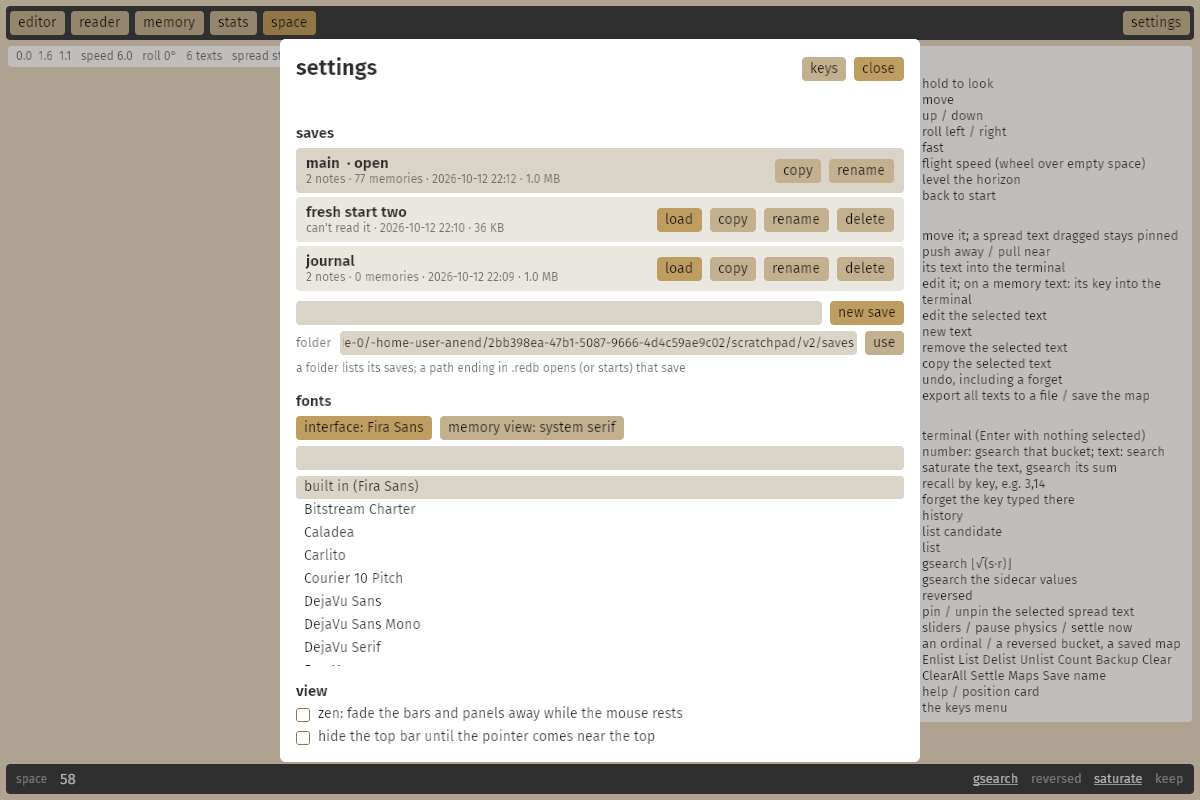
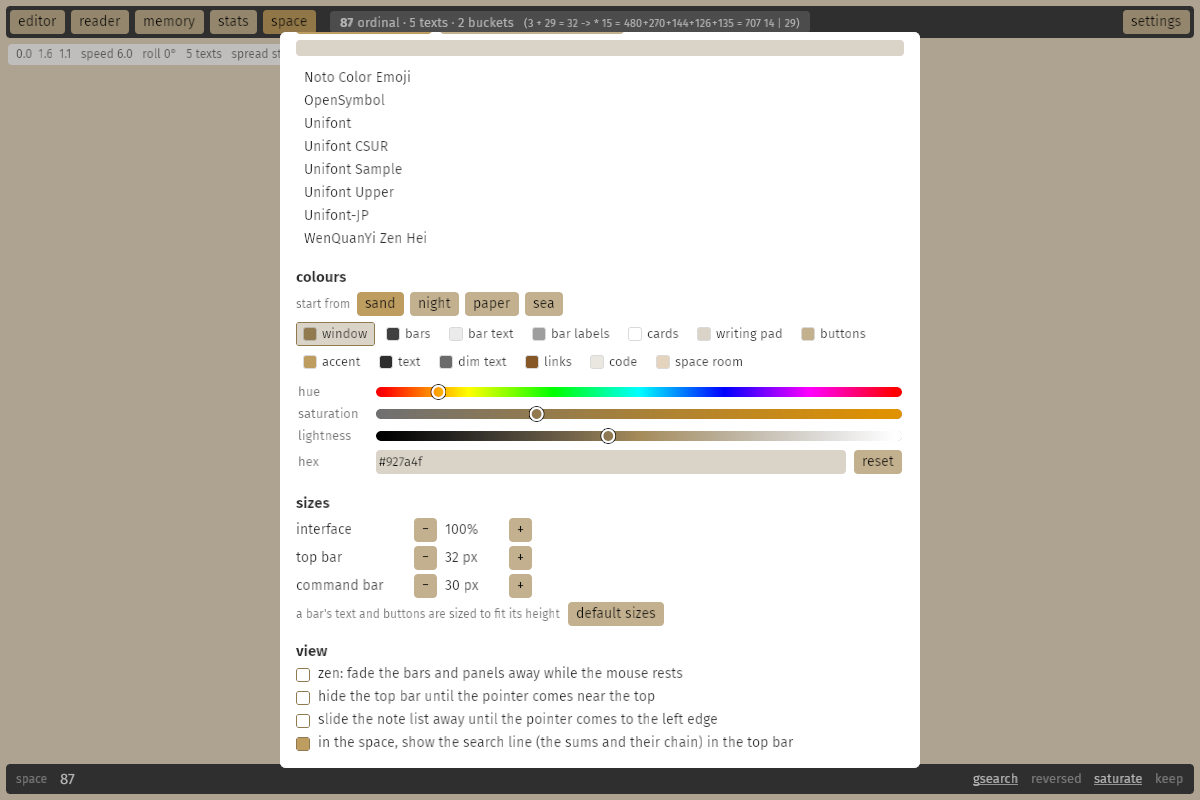
Release builds for Linux and Windows, CI, docs
- .github/workflows/release.yml: a pushed v* tag builds the app and the
  server on Linux and Windows and attaches a .tar.gz and a .zip to a
  release; running it by hand gives the same packages as artifacts.
- .github/workflows/ci.yml: fmt, clippy and tests for the app, vet and
  tests for the server, on pushes to master and pull requests.
- A release build on Windows opens no console window.
- README: colours, sizes, the sliding list, downloads and releases; new
  screenshots, one in the night colours.

Claude-Session: https://claude.ai/code/session_01Tq7kHwoCFpfspEmb6rmcAF

diff --git a/src/main.rs b/src/main.rs
@@ -1,6 +1,8 @@
 //! anend notes: a desktop markdown note app with the look and workflow of the old anend
 //! blog admin panel, built on Bevy's feathers widgets. Notes live in a local redb file.
 
+// a release build on Windows opens no console window next to the app
+#![cfg_attr(all(windows, not(debug_assertions)), windows_subsystem = "windows")]
 #![allow(clippy::type_complexity, clippy::too_many_arguments)] // bevy queries and systems are naturally verbose
 
 mod bar;

diff --git a/README.md b/README.md
@@ -16,23 +16,23 @@ as saves and swap between them like a game's.
 ![the memory view](docs/memory.png)
 ![the space](docs/space.png)
 ![the settings](docs/settings.png)
+![the night colours](docs/night.png)
 
 ## Using it
 
 | | |
 |---|---|
-| **editor** | the note list (with **+ new**) next to the editor card. The first `# line` is the note's title, the rest is markdown. |
+| **editor** | the note list (with **+ new**) next to the editor card. The first `# line` is the note's title, the rest is markdown. **‹** (or **Ctrl+B**) slides the list away to the left; it peeks back out while the pointer is at the left edge. |
 | **tags** | type a tag in the box at the top of the card and press Enter (or `,`); click a tag to remove it |
-| **published** | ticking it saves the note and shows it in the reader |
 | **view / edit** | switch between the markdown source and the rendered note |
-| **reader** | published notes, newest first, the way the old front page listed writs; click a `#tag` to filter |
+| **reader** | your notes, newest first, the way the old front page listed writs; click a `#tag` to filter |
 | **stats** | counts of notes, words, saves and tags |
 | **memory** | weum's memory view: short texts ("memories") and your notes, searched by gematria or by words |
 | **command bar** | the line at the bottom, one for every view (see below) |
 | **space** | weum's spatial memory (remem): fly through a room where memory texts float, laid out by their sums |
-| **settings** | saves, fonts, zen mode and the top bar (also **Ctrl+,**); the key remap menu is in there too (also **K**, or **Ctrl+K** in the space) |
+| **settings** | saves, fonts, colours, sizes, zen mode and the bars (also **Ctrl+,**); the key remap menu is in there too (also **K**, or **Ctrl+K** in the space) |
 
-Shortcuts: **Ctrl+S** save, **Ctrl+N** new note, **Ctrl+E** toggle view/edit,
+Shortcuts: **Ctrl+S** save, **Ctrl+N** new note, **Ctrl+E** toggle view/edit, **Ctrl+B** the note list,
 **Ctrl+1..5** editor / reader / memory / stats / space, **Ctrl+,** settings, **/** the
 command bar. All of them can be changed in **keys**.
 
@@ -68,7 +68,11 @@ Also in settings:
 |---|---|
 | **fonts** | the interface font (every text in the app, the space's floating texts too) and the memory view's font, from the fonts on your system; filter the list by typing |
 | **zen** | while the mouse rests the bars and panels fade away (after 1, 2.5, 5 or 10 seconds); typing in the editor doesn't bring them back, moving the mouse does |
+| **colours** | every colour the app uses has a name (window, bars, bar text, cards, writing pad, buttons, accent, text, links, code, the space's room...): pick one and set it with the hue, saturation and lightness sliders or a hex. **sand** (the old admin panel's), **night**, **paper** and **sea** are starting points; **reset** puts one colour back. The memory view keeps weum's own colours |
+| **sizes** | the whole interface's scale, and the top bar's and command bar's heights in pixels, the way a desktop panel is set; their text and buttons are sized to fit |
 | **hide the top bar** | it slides up out of the way and back down when the pointer comes to the top edge |
+| **slide the note list away** | the same as **Ctrl+B**: it stays away until the pointer comes to the left edge |
+| **the space's search line** | in the space, what was searched, its counts and its sum's prime factor chain sit in the top bar (fading with it under zen); this turns that off |
 
 These settings and your key bindings live in `config.json` in the platform config folder
 (`~/.config/anend` on Linux, `~/Library/Application Support/anend` on macOS,
@@ -164,6 +168,27 @@ Downloads, **Shift+X** saves the map in the database (**Maps** lists them), **H*
 **I** the position card. Every key can be remapped in **keys**. weum's esearch, speech
 and image memories aren't part of it.
 
+## Downloads
+
+Builds for Linux and Windows are on the repository's
+[releases page](https://github.com/SaulDoesCode/anend/releases), each with the app
+(`anend`) and the old server (`anend-server`). On Linux the app needs the Wayland or X11
+libraries a desktop already has.
+
+They're made by GitHub Actions (`.github/workflows/release.yml`). To make a release, tag a
+commit and push the tag:
+
+```sh
+git tag v0.2.0
+git push origin v0.2.0
+```
+
+The workflow builds both programs on Linux and Windows and attaches a `.tar.gz` and a
+`.zip` to a new release named after the tag, with notes listing the merged pull requests.
+**Run workflow** on the repository's Actions tab (release) builds the same packages as
+downloadable artifacts without making a release. `.github/workflows/ci.yml` checks
+formatting, clippy and the tests of both on every push to master and every pull request.
+
 ## Building
 
 ```sh
@@ -171,7 +196,7 @@ cargo run --release
 ```
 
 Bevy 0.20 needs Rust 1.97.1 or newer. On Linux you also need the usual Bevy system
-packages, e.g. on Debian/Ubuntu: `libwayland-dev libxkbcommon-dev` (plus
+packages, e.g. on Debian/Ubuntu: `libwayland-dev libxkbcommon-dev libfontconfig1-dev` (plus
 `libxkbcommon-x11-0` at runtime on X11). The memory view uses a system serif font
 (Times New Roman, or whatever serif fontconfig offers).
 
@@ -193,8 +218,7 @@ To bring writs over from the old server, export the `writs` collection (for exam
 anend --import writs.json
 ```
 
-This keeps their keys, titles, markdown, tags, dates, edit history and published
-(`public`) state.
+This keeps their keys, titles, markdown, tags, dates and edit history.
 
 ## The old server
 
@@ -268,4 +292,6 @@ and a login-to-published-writ run through the http api.
 | `src/settings.rs` | the settings menu and the saves: load, new, copy, rename, delete |
 | `src/config.rs` | the settings file |
 | `src/typeface.rs` | swapping the interface font and the memory view's font |
-| `src/zen.rs` | zen's fade and the hiding top bar |
+| `src/zen.rs` | zen's fade, the hiding top bar and the sliding note list |
+| `src/palette.rs` | the colours the settings change, and repainting the interface with them |
+| `src/sizing.rs` | the interface scale and the bars' heights |
